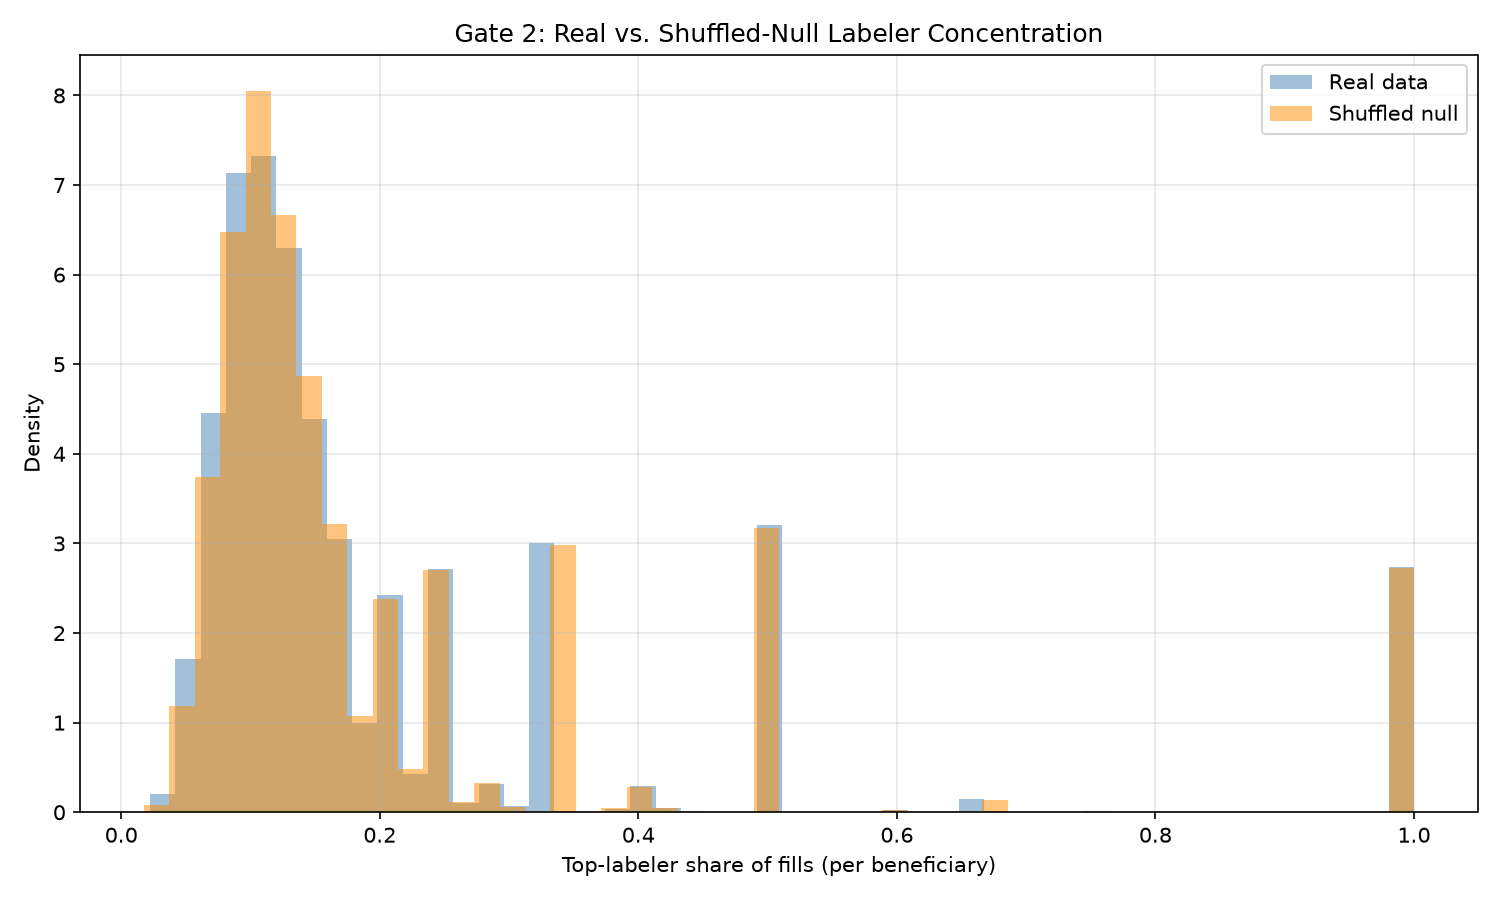
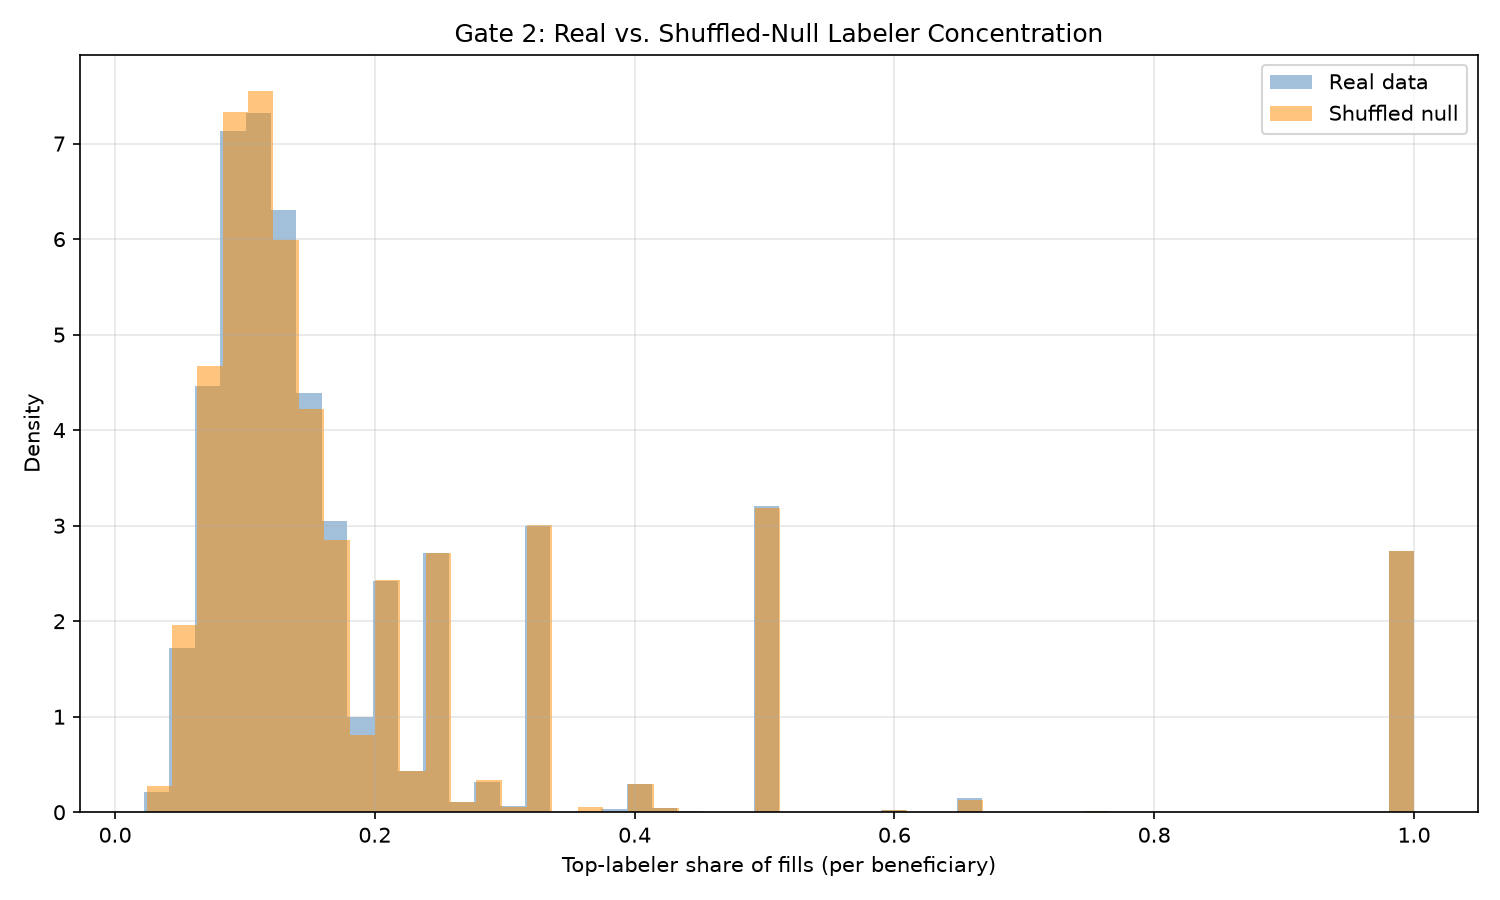
feat: emit figures and audit_results.json from fidelity.py

diff --git a/audit/fidelity.py b/audit/fidelity.py
@@ -7,10 +7,14 @@ later modules. See docs/fidelity_audit.md for full narrative context:
 this module produces the numbers that document cites.
 """
 
+# Global imports
 import duckdb
 import numpy as np
 import polars as pl
 from scipy import stats
+import matplotlib.pyplot as plt
+import json
+from pathlib import Path
 
 DB_PATH = "data/claims.duckdb"
 SEED = 7  # Like always, 007 is unavailable.
@@ -47,7 +51,7 @@ def gate1_refill_pairs(con):
     }
 
 
-def gate2_labeler_concentration_null(con):
+def gate2_labeler_concentration_null(con, figures_dir=None):
     """Is a beneficiary's tendency to cluster fills around one labeler a
     real personal trait, or indistinguishable from random chance?"""
     pde_labelers = con.execute("""
@@ -88,6 +92,32 @@ def gate2_labeler_concentration_null(con):
             (pl.col("top_labeler_fills") / pl.col("total_fills")).alias("top_labeler_share")
         )
     )
+    if figures_dir:
+        fig, ax = plt.subplots(figsize=(10, 6))
+        ax.hist(
+            real_concentration["top_labeler_share"],
+            bins=50,
+            alpha=0.5,
+            label="Real data",
+            color="steelblue",
+            density=True,
+        )
+        ax.hist(
+            shuffled_concentration["top_labeler_share"],
+            bins=50,
+            alpha=0.5,
+            label="Shuffled null",
+            color="darkorange",
+            density=True,
+        )
+        ax.set_xlabel("Top-labeler share of fills (per beneficiary)")
+        ax.set_ylabel("Density")
+        ax.set_title("Gate 2: Real vs. Shuffled-Null Labeler Concentration")
+        ax.legend()
+        ax.grid(alpha=0.3)
+        plt.tight_layout()
+        plt.savefig(f"{figures_dir}/gate2_labeler_concentration_null_test.png", dpi=150)
+        plt.close(fig)
 
     return {
         "real_mean": real_concentration["top_labeler_share"].mean(),
@@ -97,7 +127,7 @@ def gate2_labeler_concentration_null(con):
     }
 
 
-def gate3_90day_share_null(con):
+def gate3_90day_share_null(con, figures_dir=None):
     """Is a beneficiary's tendency toward 90-day fills, a real personal
     trait, or indistinguishable from random chance?"""
     pde_days_supply = con.execute("""
@@ -126,6 +156,32 @@ def gate3_90day_share_null(con):
         real_90day_share["share_90day"].to_numpy(),
         shuffled_90day_share["share_90day"].to_numpy(),
     )
+    if figures_dir:
+        fig, ax = plt.subplots(figsize=(10, 6))
+        ax.hist(
+            real_90day_share["share_90day"],
+            bins=50,
+            alpha=0.5,
+            label="Real data",
+            color="steelblue",
+            density=True,
+        )
+        ax.hist(
+            shuffled_90day_share["share_90day"],
+            bins=50,
+            alpha=0.5,
+            label="Shuffled null",
+            color="darkorange",
+            density=True,
+        )
+        ax.set_xlabel("90-day-supply share of fills (per beneficiary)")
+        ax.set_ylabel("Density")
+        ax.set_title("Gate 3: Real vs. Shuffled-Null 90-Day-Supply Concentration")
+        ax.legend()
+        ax.grid(alpha=0.3)
+        plt.tight_layout()
+        plt.savefig(f"{figures_dir}/gate3_90day_share_null_test.png", dpi=150)
+        plt.close(fig)
 
     return {
         "real_mean": real_90day_share["share_90day"].mean(),
@@ -271,7 +327,7 @@ def gate6_test1_days_supply_timing(con):
     }, clean_pde
 
 
-def gate6_test2_timing_structure(clean_pde):
+def gate6_test2_timing_structure(clean_pde, figures_dir=None):
     """For each beneficiary, redraw fill dates uniformly within their own
     observation window (keeping fill count and window fixed). Compare real
     vs. redrawn on coefficient of variation of gaps, share with a 60+ day
@@ -318,14 +374,52 @@ def gate6_test2_timing_structure(clean_pde):
             rfirst60_idx = np.where(rgaps >= 60)[0][0]
             redrawn_resume90.append(rgaps[rfirst60_idx] <= 90)
 
+    real_any60_pct = 100 * np.mean(real_any60)
+    redrawn_any60_pct = 100 * np.mean(redrawn_any60)
+    real_resume90_pct = 100 * np.mean(real_resume90)
+    redrawn_resume90_pct = 100 * np.mean(redrawn_resume90)
+
+    if figures_dir:
+        fig, axes = plt.subplots(1, 3, figsize=(16, 5))
+
+        axes[0].hist(real_cvs, bins=50, alpha=0.5, label="Real", color="steelblue", density=True)
+        axes[0].hist(
+            redrawn_cvs, bins=50, alpha=0.5, label="Redrawn", color="darkorange", density=True
+        )
+        axes[0].set_xlabel("Coefficient of variation of gaps")
+        axes[0].set_ylabel("Density")
+        axes[0].set_title("CV of gaps")
+        axes[0].legend()
+
+        axes[1].bar(
+            ["Real", "Redrawn"],
+            [real_any60_pct, redrawn_any60_pct],
+            color=["steelblue", "darkorange"],
+        )
+        axes[1].set_ylabel("% of beneficiaries")
+        axes[1].set_title("Any 60+ day gap")
+
+        axes[2].bar(
+            ["Real", "Redrawn"],
+            [real_resume90_pct, redrawn_resume90_pct],
+            color=["steelblue", "darkorange"],
+        )
+        axes[2].set_ylabel("% (of those with a 60+ day gap)")
+        axes[2].set_title("Resume within 90 days")
+
+        fig.suptitle("Gate 6, Test 2: Real vs. Redrawn Timing Structure")
+        plt.tight_layout()
+        plt.savefig(f"{figures_dir}/gate6_test2_timing_structure.png", dpi=150)
+        plt.close(fig)
+
     return {
         "n_tested": len(real_cvs),
         "real_cv_median": np.nanmedian(real_cvs),
         "redrawn_cv_median": np.nanmedian(redrawn_cvs),
-        "real_any60_pct": 100 * np.mean(real_any60),
-        "redrawn_any60_pct": 100 * np.mean(redrawn_any60),
-        "real_resume90_pct": 100 * np.mean(real_resume90),
-        "redrawn_resume90_pct": 100 * np.mean(redrawn_resume90),
+        "real_any60_pct": real_any60_pct,
+        "redrawn_any60_pct": redrawn_any60_pct,
+        "real_resume90_pct": real_resume90_pct,
+        "redrawn_resume90_pct": redrawn_resume90_pct,
     }
 
 
@@ -440,12 +534,14 @@ def part_d_corrections(con):
 
 def main():
     con = duckdb.connect(DB_PATH)
+    results = {}
 
     # Gate 1 print block
     print("=" * 60)
     print("GATE 1: Population-wide refill-pair check")
     print("=" * 60)
     g1 = gate1_refill_pairs(con)
+    results["gate1"] = g1
     print("Product-code level:")
     print(f"  Total (beneficiary, product) pairs: {g1['product_total_pairs']:,}")
     print(
@@ -463,7 +559,8 @@ def main():
     print("\n" + "=" * 60)
     print("GATE 2: Labeler concentration vs. shuffle null")
     print("=" * 60)
-    g2 = gate2_labeler_concentration_null(con)
+    g2 = gate2_labeler_concentration_null(con, figures_dir="reports/figures")
+    results["gate2"] = g2
     print(f"Real data     — mean: {g2['real_mean']:.4f}, median: {g2['real_median']:.4f}")
     print(f"Shuffled null — mean: {g2['shuffled_mean']:.4f}, median: {g2['shuffled_median']:.4f}")
 
@@ -471,7 +568,8 @@ def main():
     print("\n" + "=" * 60)
     print("GATE 3: 90-day-supply share vs. shuffle null")
     print("=" * 60)
-    g3 = gate3_90day_share_null(con)
+    g3 = gate3_90day_share_null(con, figures_dir="reports/figures")
+    results["gate3"] = g3
     print(f"Real data     — mean: {g3['real_mean']:.4f}, std: {g3['real_std']:.4f}")
     print(f"Shuffled null — mean: {g3['shuffled_mean']:.4f}, std: {g3['shuffled_std']:.4f}")
     print(f"KS statistic: {g3['ks_stat']:.4f}, p-value: {g3['ks_pvalue']:.2e}")
@@ -481,6 +579,7 @@ def main():
     print("GATE 4: Fills-per-enrolled-beneficiary monthly plateau threshold")
     print("=" * 60)
     g4 = gate4_monthly_plateau_threshold(con)
+    results["gate4"] = g4
     print(f"2009 plateau (mean fills/enrolled): {g4['plateau_2009']:.3f}")
     print(f"90% threshold: {g4['threshold']:.3f}")
     print(
@@ -497,6 +596,7 @@ def main():
     print("GATE 5: FDA NDC Directory lookup (manual check, recorded here)")
     print("=" * 60)
     g5 = gate5_ndc_directory_lookup()
+    results["gate5"] = g5
     for labeler, info in g5.items():
         status = f"FOUND: {info['company']}" if info["found"] else "NOT FOUND"
         print(f"  {labeler} (rank #{info['fill_rank']}, {info['fills']:,} fills): {status}")
@@ -506,6 +606,7 @@ def main():
     print("GATE 6, TEST 1: Days-supply -> next-fill-gap relationship")
     print("=" * 60)
     g6t1, clean_pde = gate6_test1_days_supply_timing(con)
+    results["gate6_test1"] = g6t1
     print(
         f"Real:     30-day median gap {g6t1['real_30_median']:.1f}d, "
         f"90-day median gap {g6t1['real_90_median']:.1f}d, diff {g6t1['real_diff']:.1f}d"
@@ -516,7 +617,8 @@ def main():
     print("\n" + "=" * 60)
     print("GATE 6, TEST 2: Timing structure beyond fill intensity")
     print("=" * 60)
-    g6t2 = gate6_test2_timing_structure(clean_pde)
+    g6t2 = gate6_test2_timing_structure(clean_pde, figures_dir="reports/figures")
+    results["gate6_test2"] = g6t2
     print(f"Beneficiaries tested: {g6t2['n_tested']:,}")
     print(
         f"CV of gaps       — real: {g6t2['real_cv_median']:.3f}, redrawn: {g6t2['redrawn_cv_median']:.3f}"
@@ -533,6 +635,7 @@ def main():
     print("GATE 6, TEST 3: File connectivity")
     print("=" * 60)
     g6t3 = gate6_test3_file_connectivity(con)
+    results["gate6_test3"] = g6t3
     print(f"Spearman rho (fill count, chronic conditions): {g6t3['spearman_conditions']:.3f}")
     print(f"Spearman rho (fill count, inpatient admissions): {g6t3['spearman_admissions']:.3f}")
     print(f"Threshold 0.2: {'PASS' if g6t3['passes_threshold'] else 'FAIL'}")
@@ -542,6 +645,7 @@ def main():
     print("PART D CORRECTIONS: Q12 Pair 1 (65+, Spearman) and Pair 2 (year-matched)")
     print("=" * 60)
     pd_corr = part_d_corrections(con)
+    results["part_d_corrections"] = pd_corr
     print(
         f"Pair 1: Spearman rho (age 65+, chronic conditions): {pd_corr['pair1_spearman_65plus']:.3f}"
     )
@@ -552,9 +656,14 @@ def main():
         f"Pair 2: Average cost for exactly 1 admission: ${pd_corr['pair2_cost_per_admission']:,.2f}"
     )
 
+    # Write consolidated results for diffing against the report / CI checks
+    Path("reports").mkdir(exist_ok=True)
+    Path("reports/audit_results.json").write_text(json.dumps(results, indent=2, default=str))
+
     print("\n" + "=" * 60)
     print("FIDELITY AUDIT COMPLETE")
     print("=" * 60)
+    print("Results written to reports/audit_results.json")
 
     con.close()
 
